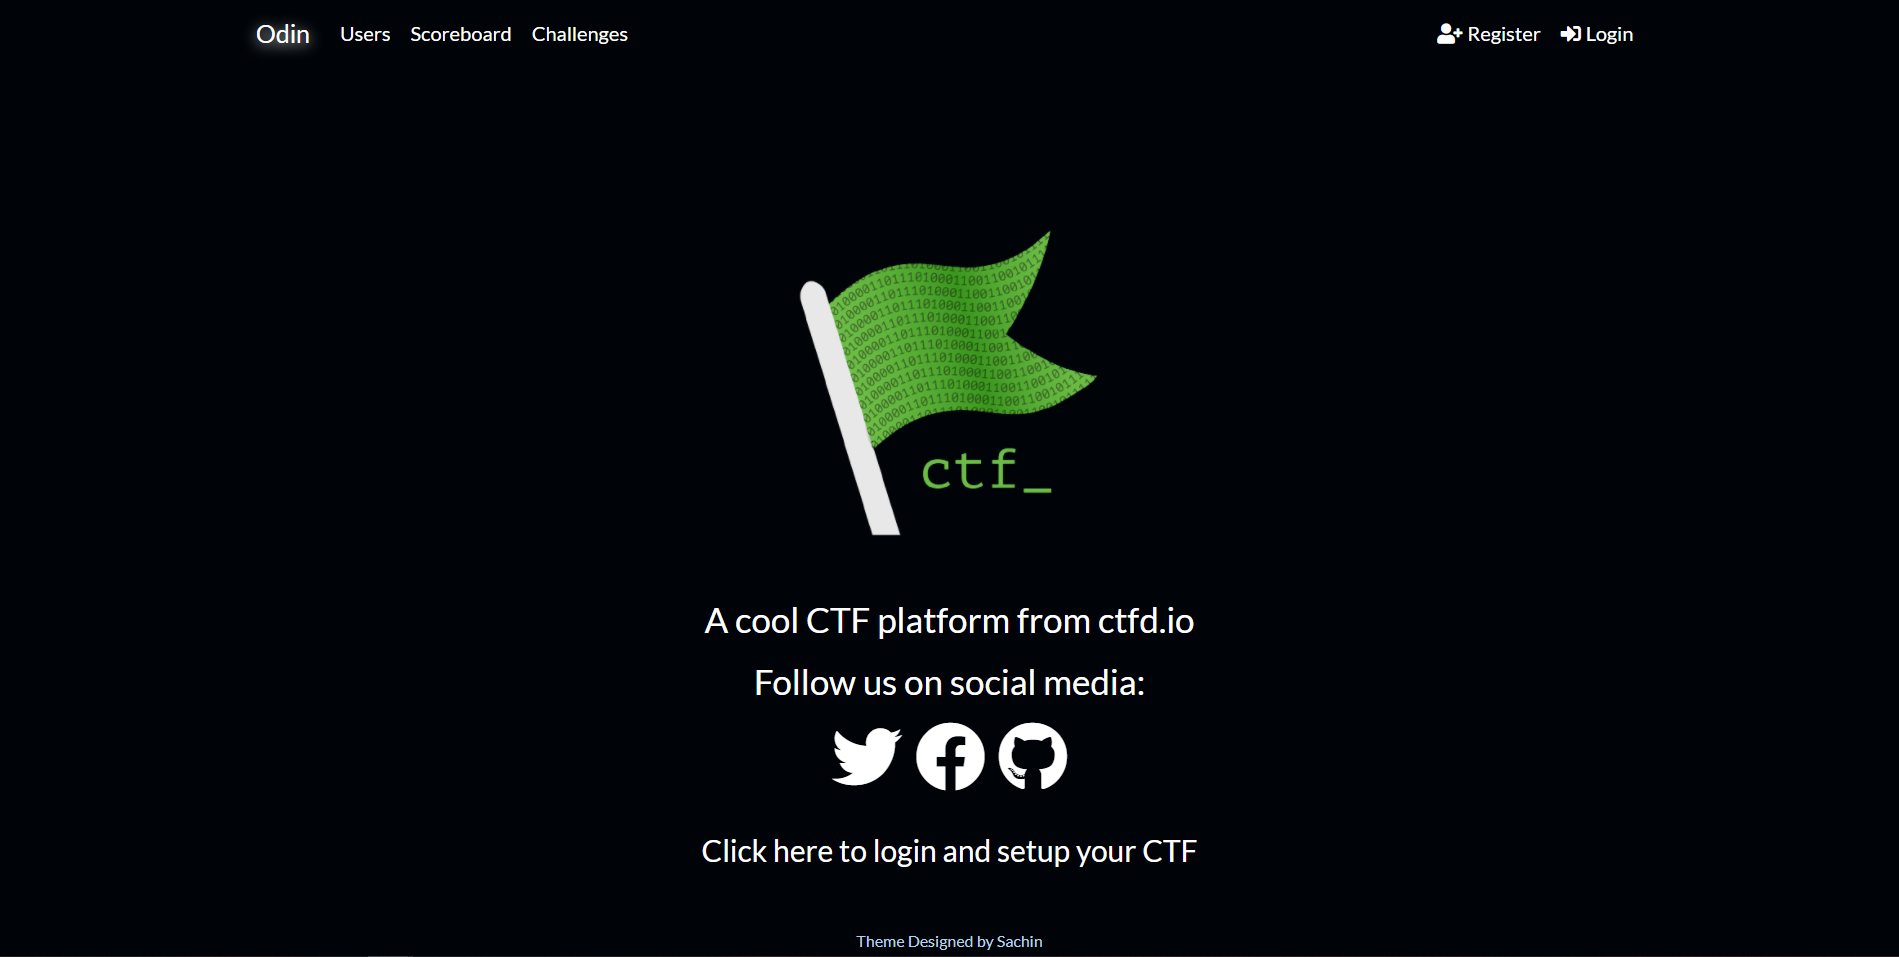
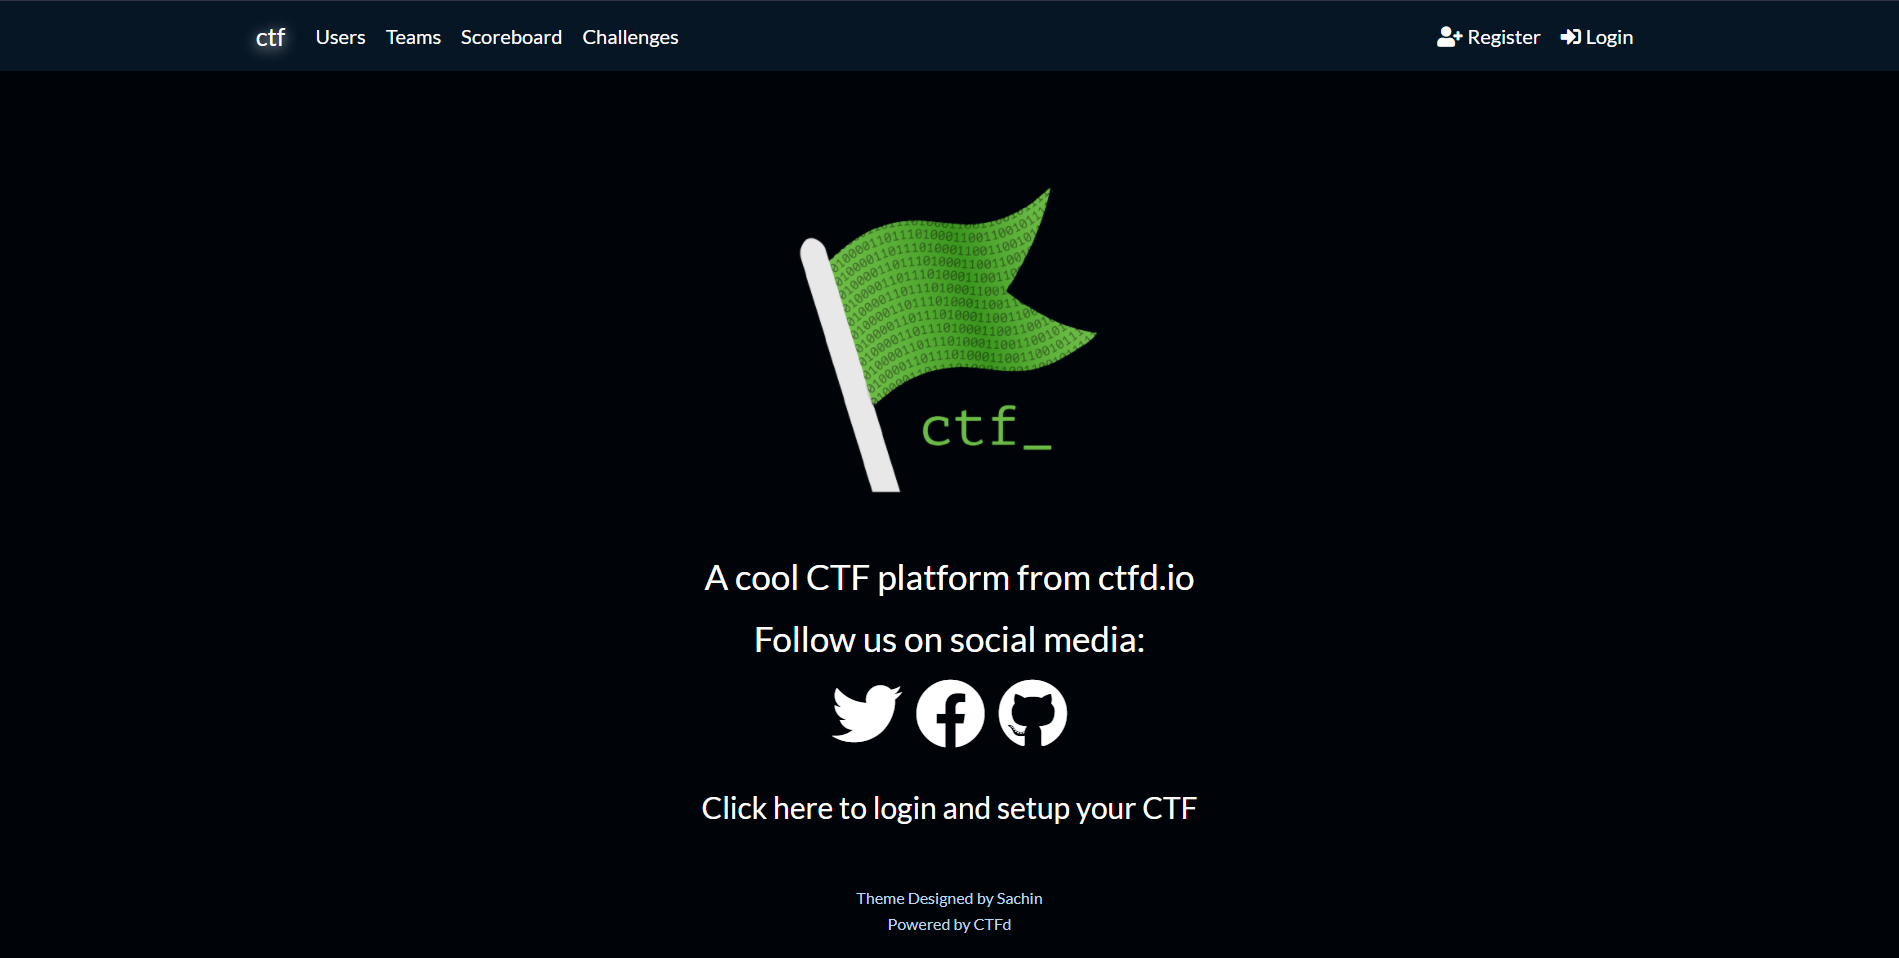
Color & Hover Effects Updates

Changed region(s): [[0.3728, 0.2121, 0.6214, 1.0], [0.0, 0.0, 1.0, 0.0909]]

diff --git a/static/css/main.min.css b/static/css/main.min.css
@@ -6556,7 +6556,7 @@ button.bg-light:hover {
 }
 
 .bg-dark {
-    background-color: #000408 !important
+    background-color: #071625 !important
 }
 
 a.bg-dark:focus,
@@ -11077,7 +11077,7 @@ blockquote {
 
 .btn-primary:hover,
 .challenge-submit:hover {
-    background-color: #3e87cc;
+    background-color: #6b91c4;
     color: white;
     box-shadow: 0px 0px 5px #3e87cc, 0px 0px 25px #3e87cc, 0px 0px 50px #3e87cc, 0px 0px 100px #3e87cc;
     -webkit-box-reflect: below 1px linear-gradient(transparent, #0005);
